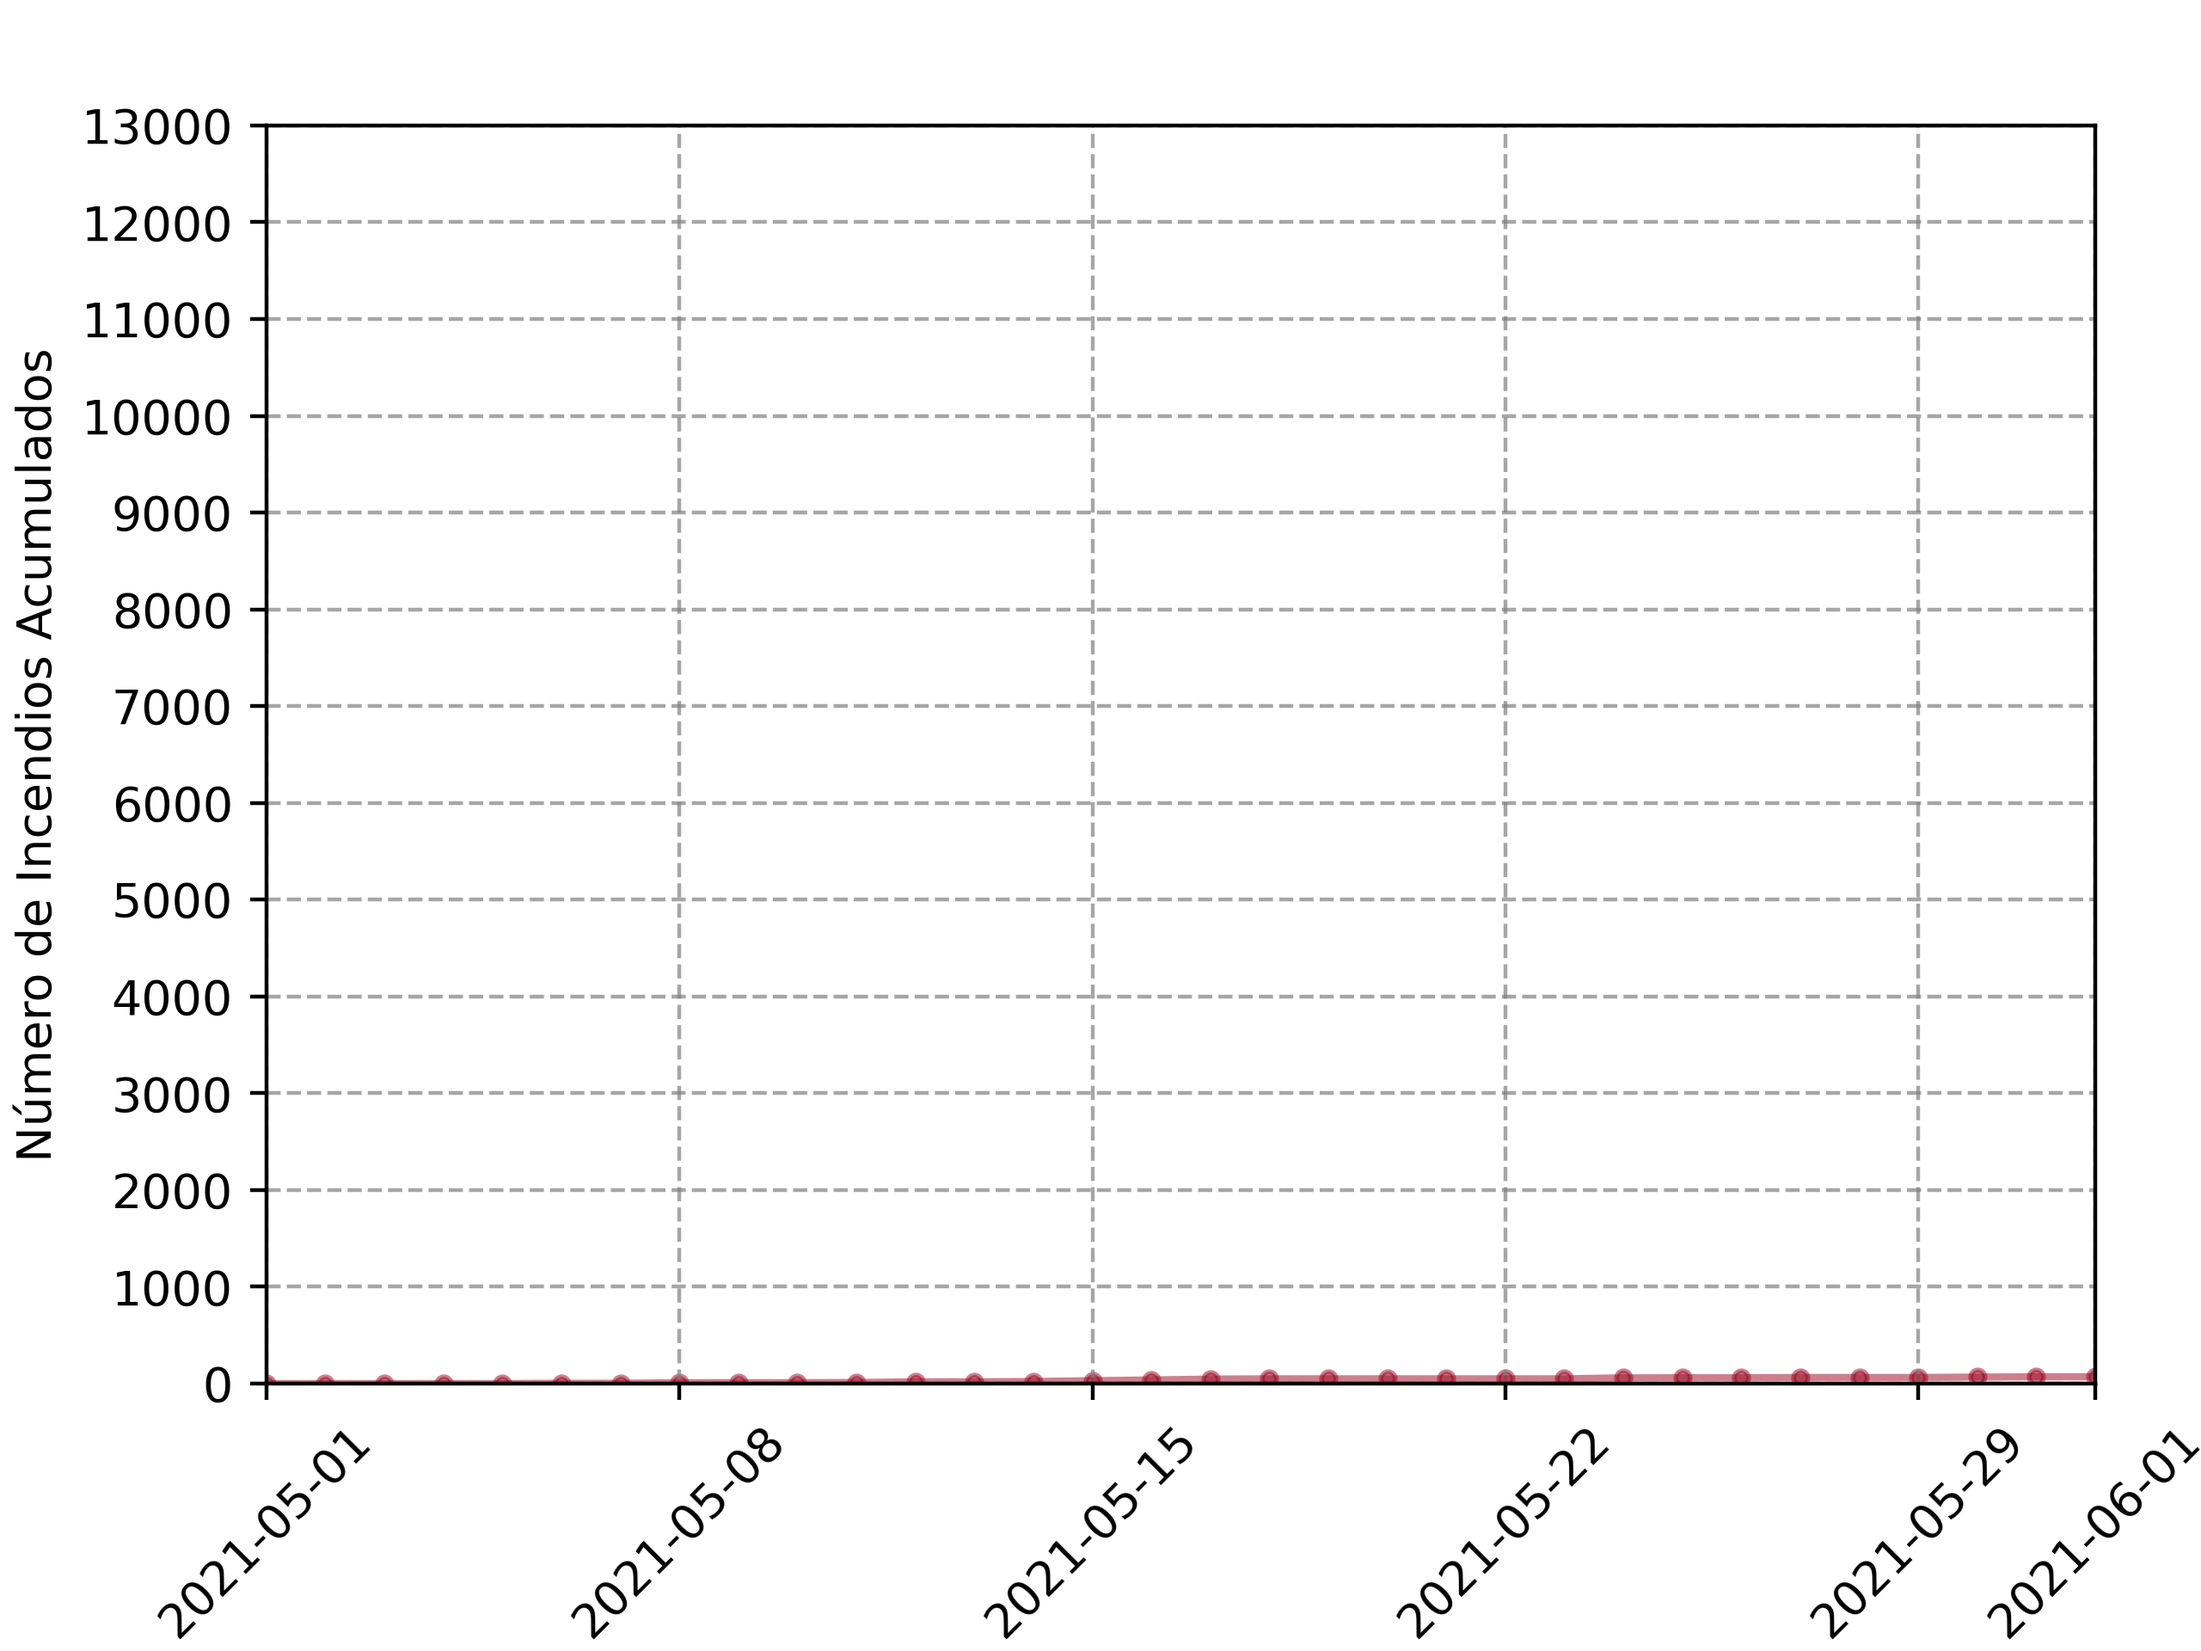
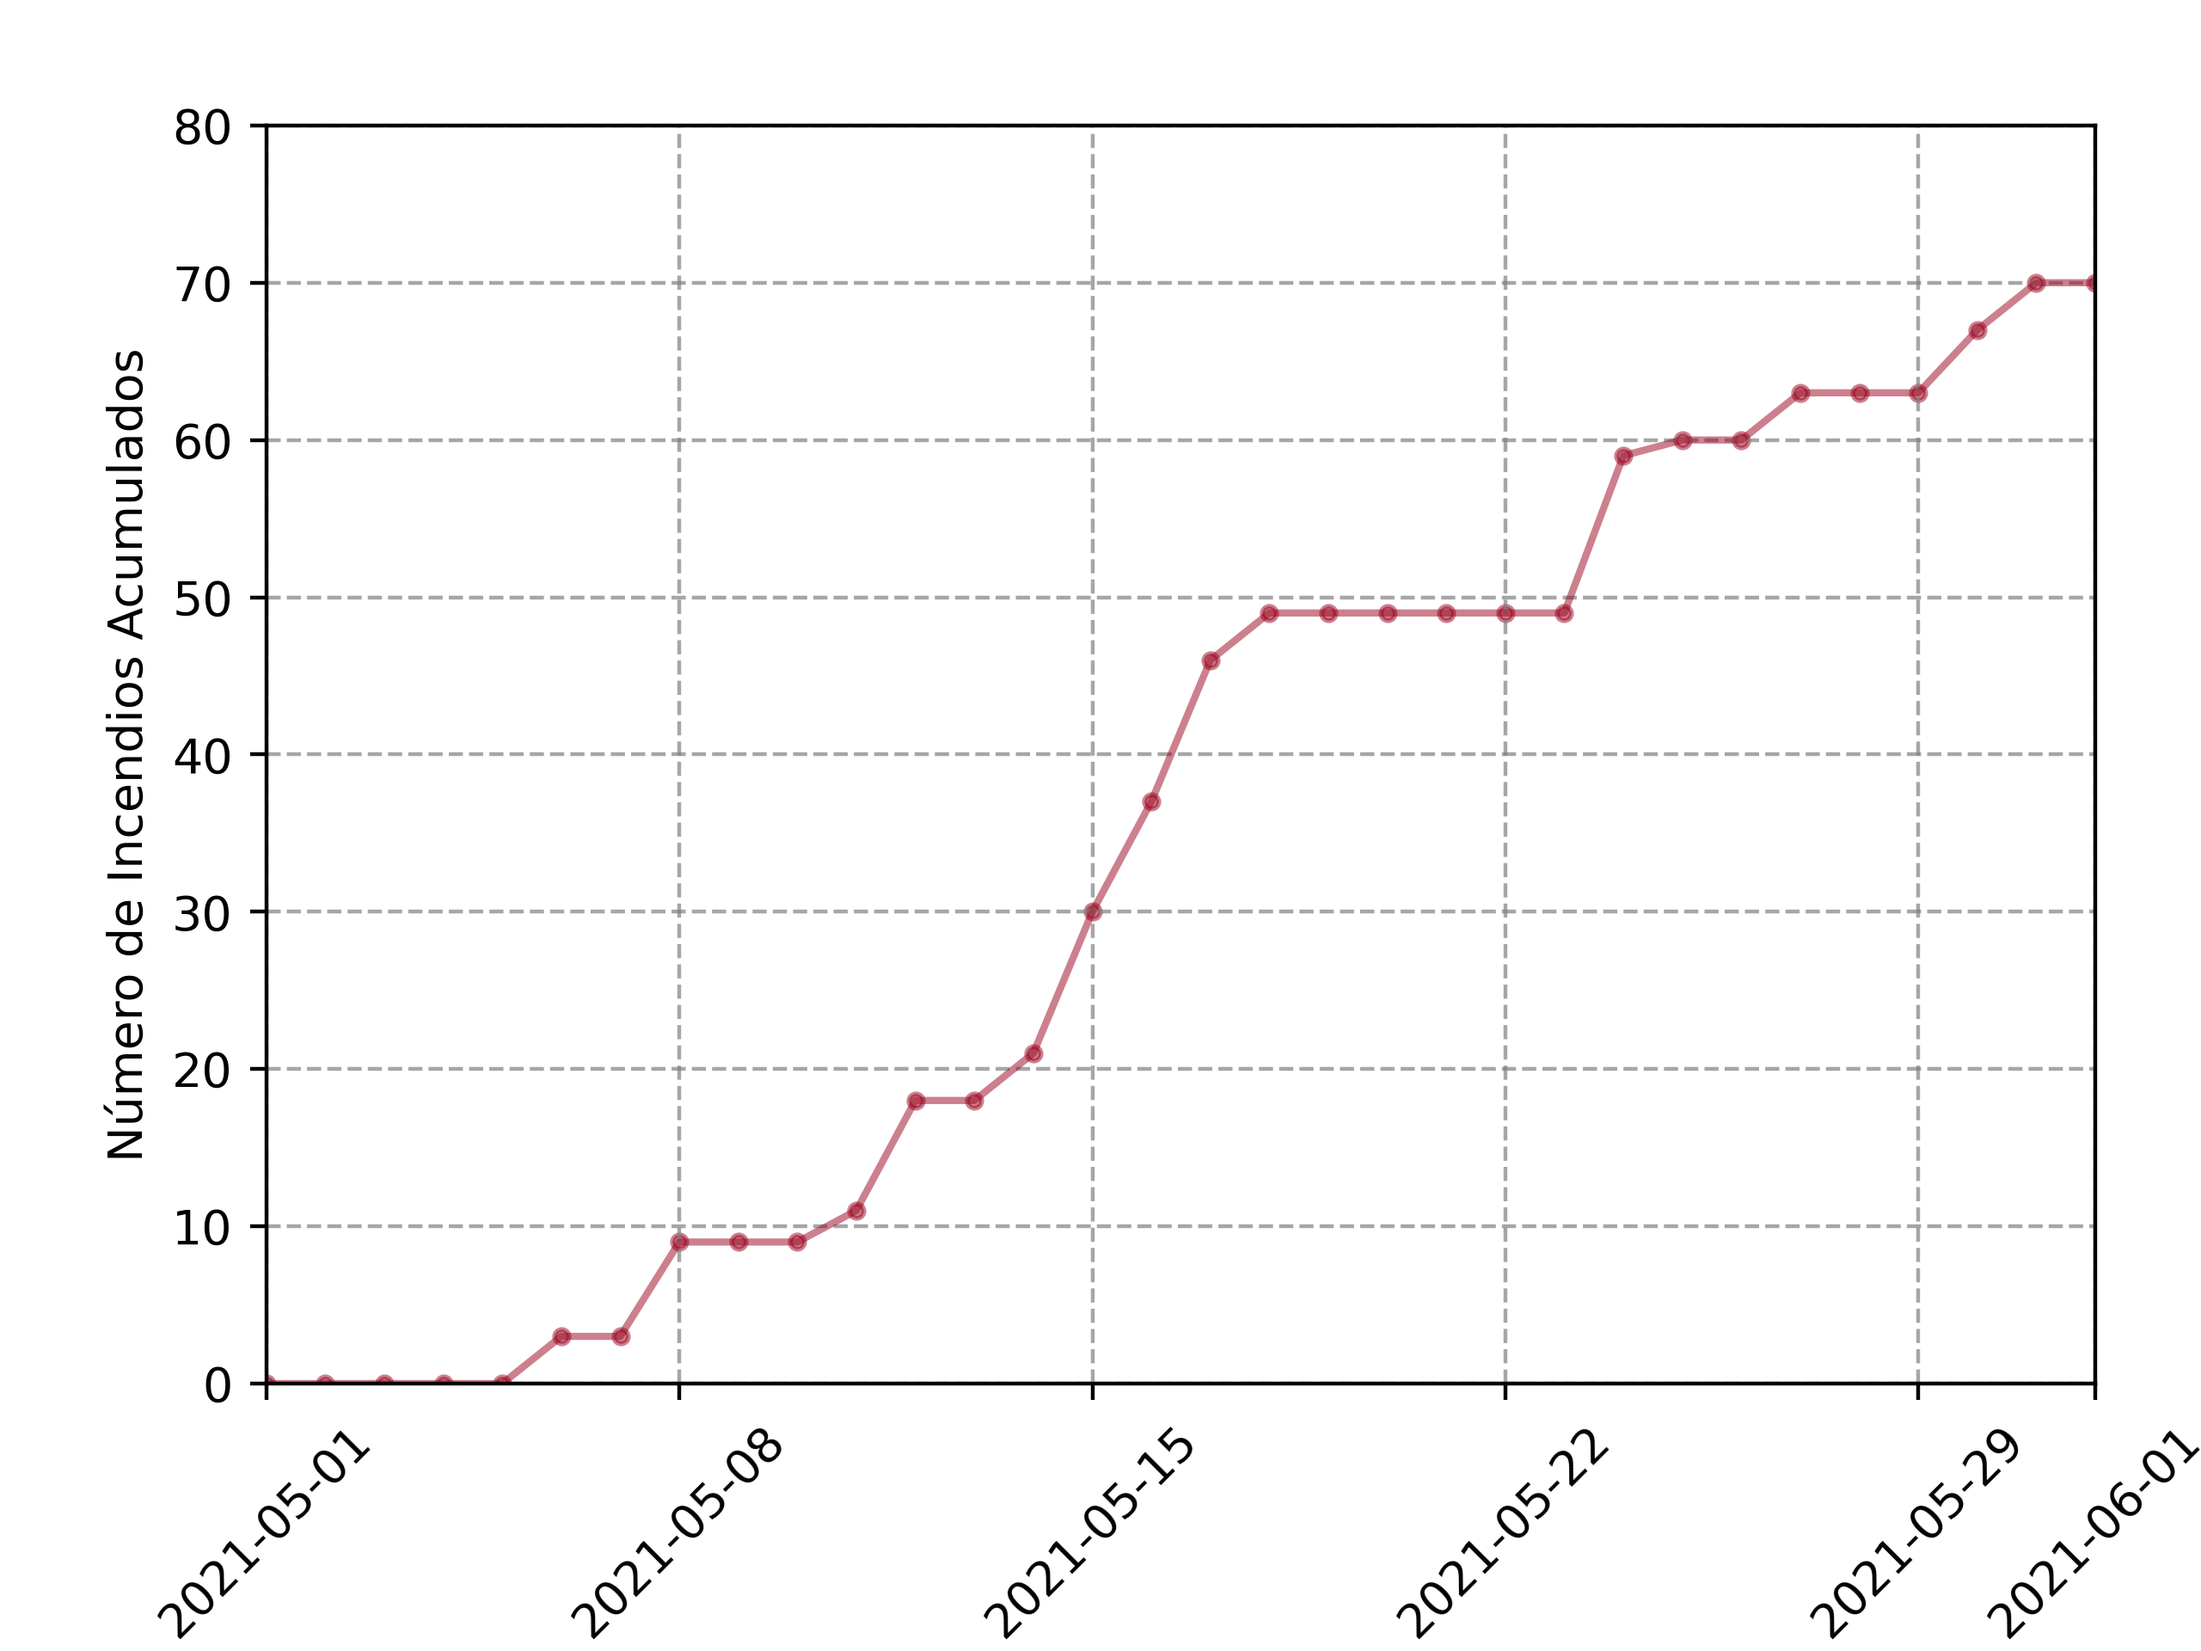
Update Y limits pn accumulative

diff --git a/Scripts/Graphics_Fire_Accumulative.py b/Scripts/Graphics_Fire_Accumulative.py
@@ -32,8 +32,8 @@ parameters = {
     "graphics file": "Fire_Accumulative.png",
     "City name": "Parana_2020",
     "Days separation": 7,
-    "Y limit": 13000,
-    "Delta y": 1000,
+    "Y limit": 80,
+    "Delta y": 10,
 }
 # Lectura de los parametros de cada ciudad
 city = city_list(city=parameters["City name"])
